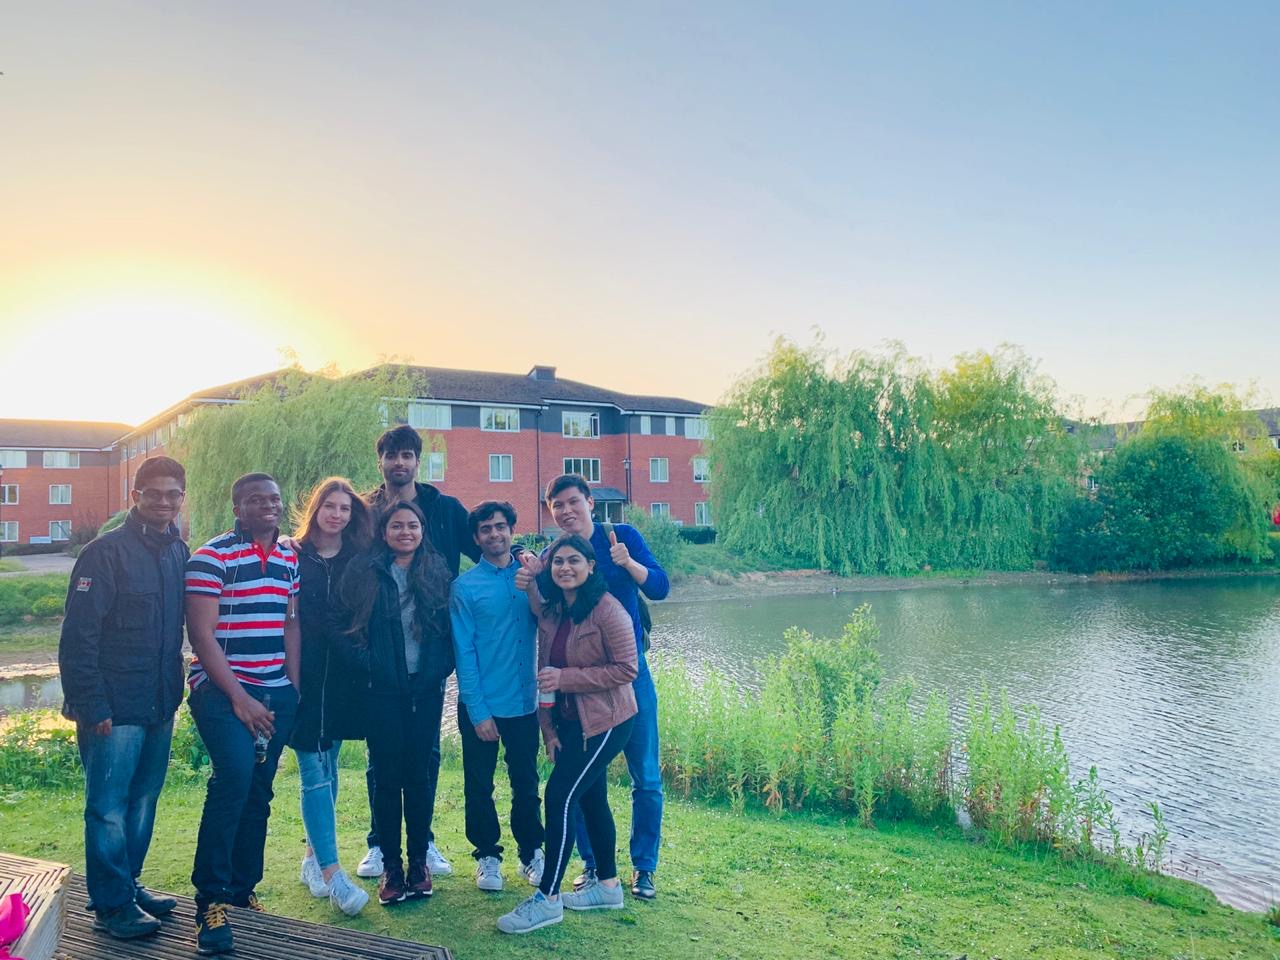
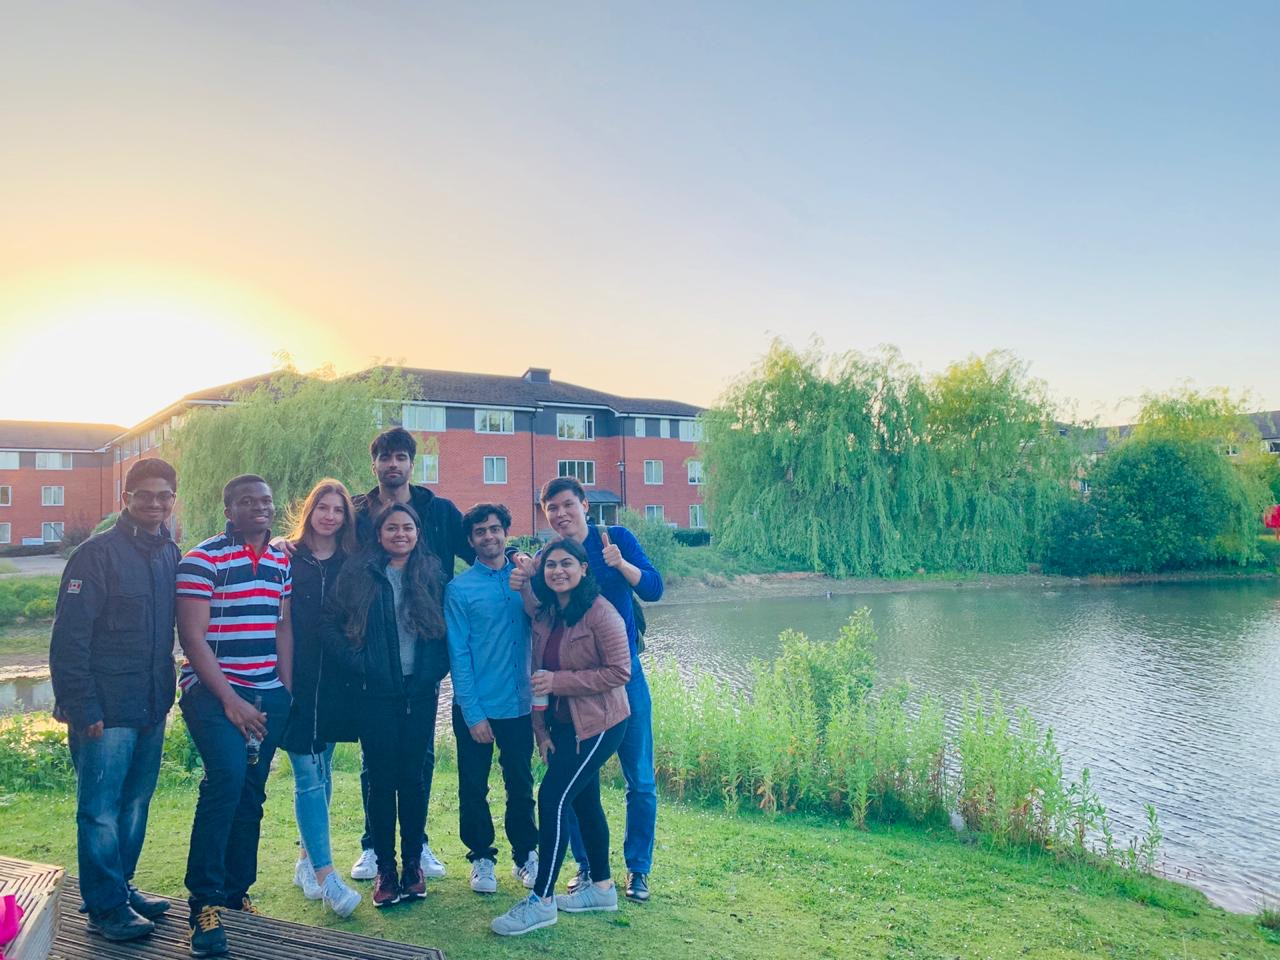
portfolio-images(new) added and pictures added to portfolio page

Changed region(s): [[0.0, 0.3438, 1.0, 1.0]]

diff --git a/portfolio.html b/portfolio.html
@@ -65,15 +65,15 @@
                         </section>
 
                         <section class="col-lg-3 col-md-6 col-sm-12">
-                            <img class="main-photos" src="images/birmingham-uni.jpg">            
+                            <img class="main-photos" src="portfolio-images/stairs-pic.jpeg">            
                         </section>
 
                         <section class="col-lg-3 col-md-6 col-sm-12">
-                            <img class="main-photos" src="images/cover-photo.jpeg">               
+                            <img class="main-photos" src="portfolio-images/stefYvon.jpeg">               
                         </section>
 
                         <section class="col-lg-3 col-md-6 col-sm-12">
-                            <img class="main-photos" src="images/section-image.jpg">            
+                            <img class="main-photos" src="portfolio-images/fam.jpeg">            
                         </section>
                         
                     </div>
@@ -82,7 +82,7 @@
 
                     <div class="row">
                         <section class="col-lg-3 col-md-6 col-sm-12">
-                            <img class="main-photos" src="images/mall-pic.jpeg">
+                            <img class="main-photos" src="portfolio-images/uni4.jpeg">
                         </section>
 
                         <section class="col-lg-3 col-md-6 col-sm-12">
@@ -90,11 +90,11 @@
                         </section>
 
                         <section class="col-lg-3 col-md-6 col-sm-12">
-                            <img class="main-photos" src="images/cover-photo.jpeg">               
+                            <img class="main-photos" src="portfolio-images/uni3.jpeg">               
                         </section>
 
                         <section class="col-lg-3 col-md-6 col-sm-12">
-                            <img class="main-photos" src="images/section-image.jpg">            
+                            <img class="main-photos" src="portfolio-images/uni5.jpeg">            
                         </section>
                         
                     </div>
@@ -103,11 +103,11 @@
 
                     <div class="row">
                         <section class="col-lg-3 col-md-6 col-sm-12">
-                            <img class="main-photos" src="images/mall-pic.jpeg">
+                            <img class="main-photos" src="portfolio-images/work1.jpeg">
                         </section>
 
                         <section class="col-lg-3 col-md-6 col-sm-12">
-                            <img class="main-photos" src="images/birmingham-uni.jpg">            
+                            <img class="main-photos" src="portfolio-images/work2.jpeg">            
                         </section>
 
                         <section class="col-lg-3 col-md-6 col-sm-12">
@@ -124,7 +124,7 @@
 
                     <div class="row">
                         <section class="col-lg-3 col-md-6 col-sm-12">
-                            <img class="main-photos" src="images/mall-pic.jpeg">
+                            <img class="main-photos" src="portfolio-images/sammy.jpeg">
                         </section>
 
                         <section class="col-lg-3 col-md-6 col-sm-12"> 
